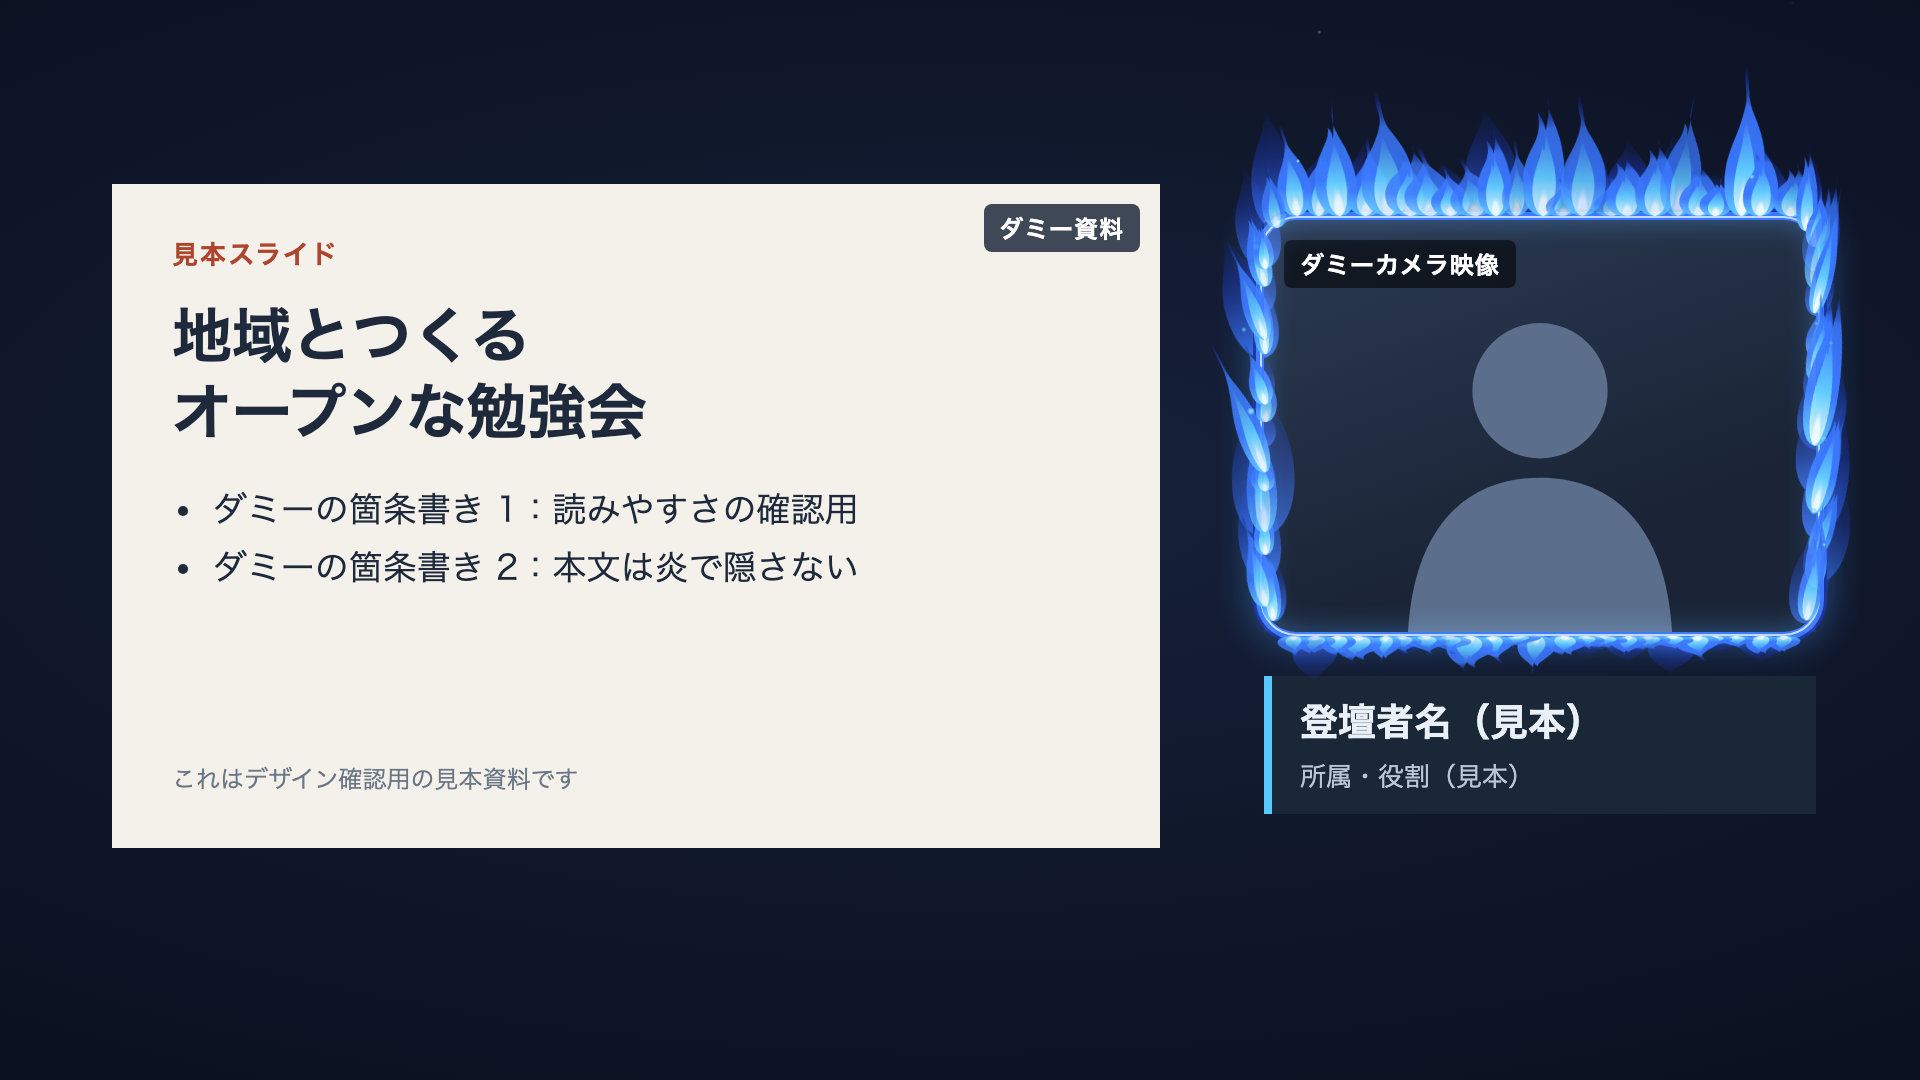
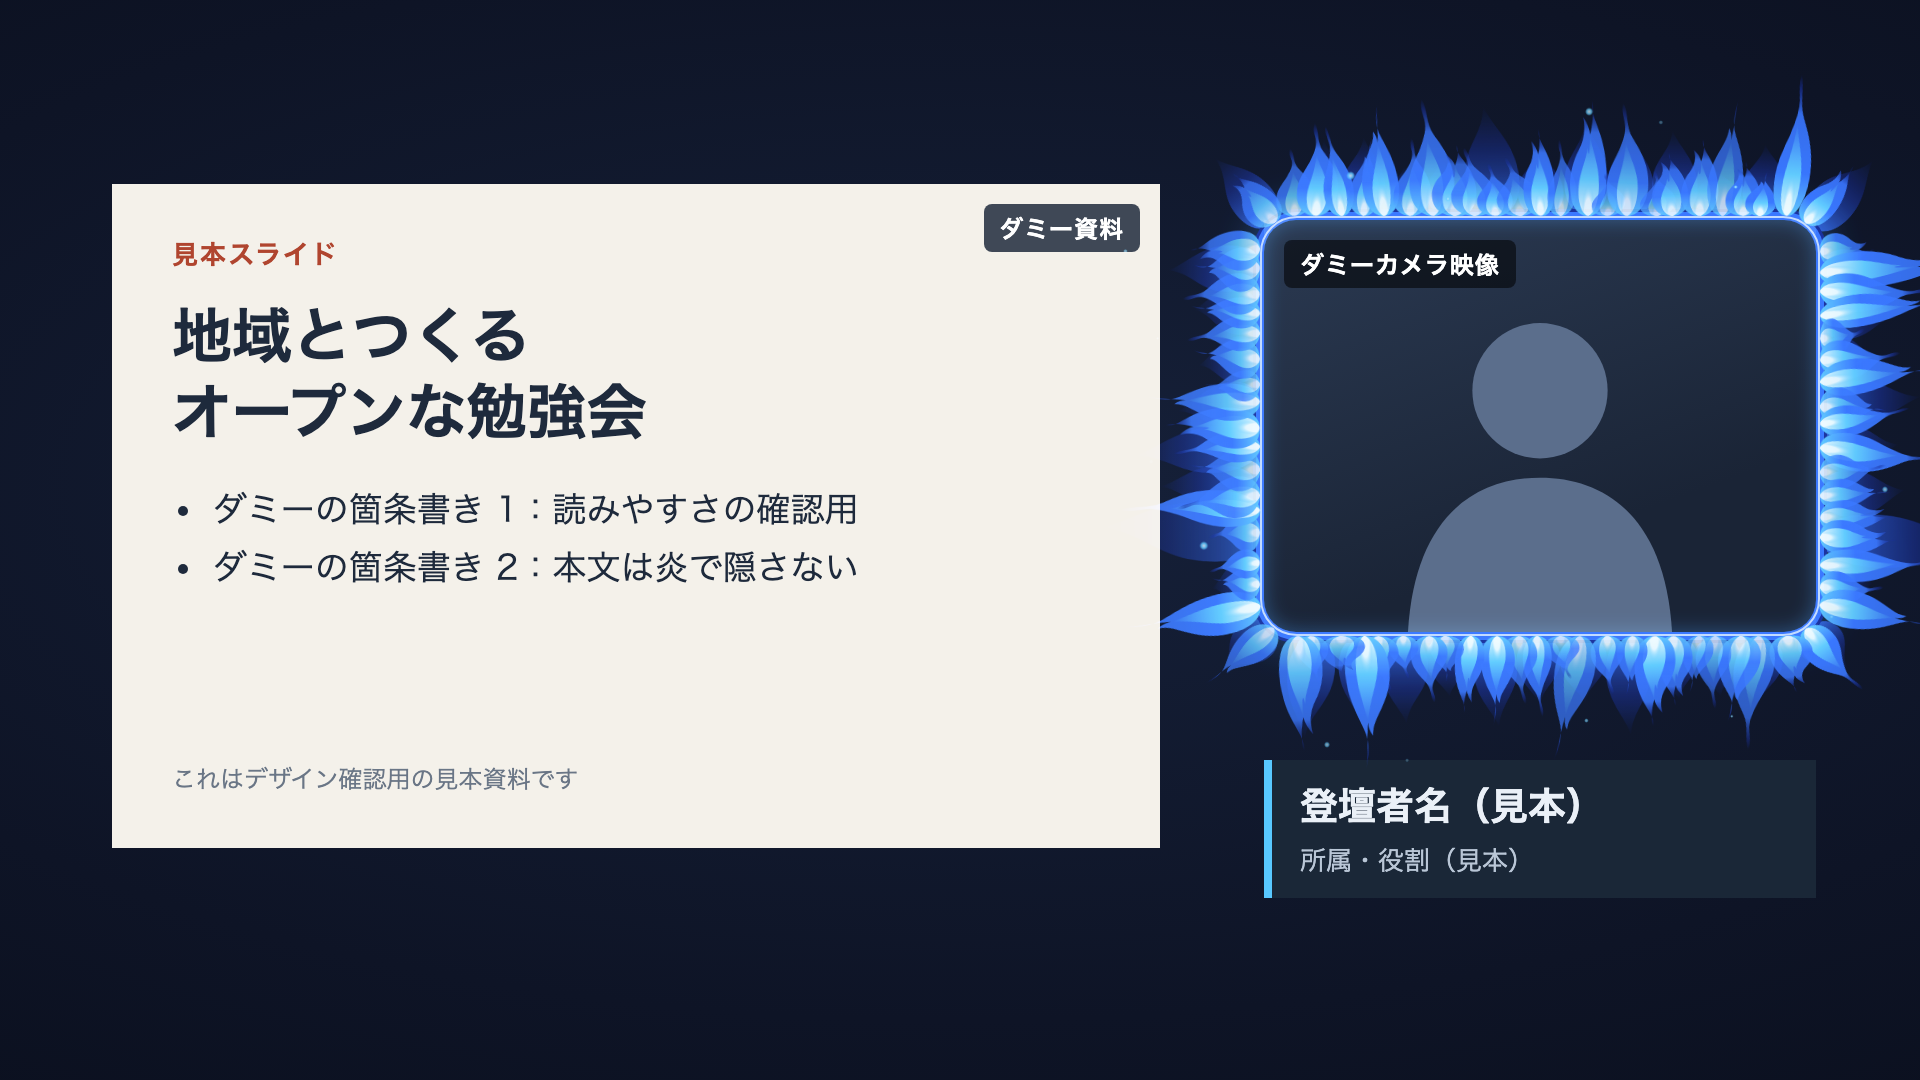
docs: 炎を枠から外側へ広がる向きに変更 (#566)

Changed region(s): [[0.5938, 0.0917, 1.0, 0.825]]

diff --git a/docs/assets/live-flame-frame-566/prototype.html b/docs/assets/live-flame-frame-566/prototype.html
@@ -8,6 +8,8 @@
   #566 「炎のフレーム」デザイン専用の試作。プロダクトのコードではない。
   外部の画像・フォント・通信を使わず、DOM + CSS + インライン SVG だけで描く。
   画面内のスライド・カメラ・氏名はすべてダミー（見本）。
+  炎は重力を無視して「枠そのものが燃えている」ように、枠から外側へ放射状に広がる
+  （上辺は上、下辺は下、左辺は左、右辺は右、角は斜め外）。枠の内側には炎を入れない。
   URL パラメータ（OBS ブラウザソースや撮影用）:
     view=output            操作パネルを隠し、ステージだけを全画面表示
     theme=ember|azure|violet|hakuji
@@ -86,12 +88,13 @@
   .frame { position: absolute; inset: 0; pointer-events: none; }
   html:not([data-theme="hakuji"]) .frame { mix-blend-mode: screen; }
   .band, .band-glow { position: absolute; border-radius: var(--r); }
+  /* flames only live outside the frame line: the frame layer is clipped to the outside of the target rect */
+  .flames { position: absolute; inset: 0; }
   .band.out { box-shadow: 0 0 0 var(--t) var(--f-outer), 0 0 0 calc(var(--t) + 1.5px) var(--f-deep); }
   .band.out::after { content: ""; position: absolute; inset: calc(var(--t) * -0.62); border-radius: calc(var(--r) + var(--t) * .62); border: max(1px, calc(var(--t) * .34)) solid var(--f-core); opacity: .75; }
-  .band-glow.out { box-shadow: 0 0 calc(10px + var(--t) * 2) calc(var(--t) + 2px) var(--f-glow), inset 0 0 14px 0 var(--f-glow); }
-  .band.in { box-shadow: inset 0 0 0 var(--t) var(--f-outer), inset 0 0 0 calc(var(--t) + 1.5px) var(--f-deep); }
-  .band.in::after { content: ""; position: absolute; inset: calc(var(--t) * .3); border-radius: var(--r); border: max(1px, calc(var(--t) * .34)) solid var(--f-core); opacity: .6; }
-  .band-glow.in { box-shadow: inset 0 0 calc(18px + var(--t) * 3) calc(var(--t) + 4px) var(--f-glow); }
+  .band-glow.out { box-shadow: 0 0 calc(10px + var(--t) * 2) calc(var(--t) + 2px) var(--f-glow); }
+  /* soft, static glow line just inside the frame (does not flicker over the face / slide) */
+  .band-inner { position: absolute; border-radius: var(--r); box-shadow: inset 0 0 10px 0 var(--f-glow); opacity: .7; }
   .band-glow { animation: breathe calc(2.9s * var(--spd)) ease-in-out infinite; }
   @keyframes breathe {
     0%, 100% { opacity: calc(1 - .25 * var(--k)); }
@@ -130,8 +133,9 @@
 
   .ember { position: absolute; left: 0; top: 0; width: var(--s); height: var(--s); border-radius: 50%;
     background: radial-gradient(circle, var(--f-core) 0%, var(--f-mid) 40%, transparent 72%);
-    animation: rise calc(var(--d) * var(--spd)) linear var(--dl) infinite; opacity: 0; will-change: transform, opacity; }
-  @keyframes rise {
+    animation: drift calc(var(--d) * var(--spd)) linear var(--dl) infinite; opacity: 0; will-change: transform, opacity; }
+  /* embers drift outward along the frame normal (--dx/--dy), not upward */
+  @keyframes drift {
     0% { transform: translate(0, 0) scale(1); opacity: 0; }
     12% { opacity: calc(.4 + .6 * var(--k)); }
     60% { transform: translate(calc(var(--dx) * .6), calc(var(--dy) * .6)) scale(.8); opacity: calc(.3 + .5 * var(--k)); }
@@ -267,23 +271,25 @@
   // Layout per placement: content rectangles and the rectangle the flames surround.
   function layout(place) {
     if (place === "screen") {
-      const deck = { x: 84, y: 66, w: 792, h: 408 };
-      return { mode: "in", target: { x: 8, y: 8, w: W - 16, h: H - 16 }, safe: deck, margin: 58,
+      // The frame line is inset from the screen edge; flames radiate outward toward (and off) the screen edge.
+      const deck = { x: 84, y: 66, w: 792, h: 408 }, inset = 44;
+      return { target: { x: inset, y: inset, w: W - inset * 2, h: H - inset * 2 }, safe: deck, edge: inset,
         html: `<div class="mock mock-slide" style="left:${deck.x}px;top:${deck.y}px;width:${deck.w}px;height:${deck.h}px">${slide(true)}</div>
                <div class="proto-tag" style="right:96px;top:78px;display:none"></div>` };
     }
     const deck = { x: 56, y: 92, w: 524, h: 332 }, cam = { x: 632, y: 110, w: 276, h: 206 };
     const target = place === "camera" ? cam : deck;
-    return { mode: "out", target, safe: target,
+    return { target, safe: target, edge: 0,
       html: `<div class="mock mock-slide" style="left:${deck.x}px;top:${deck.y}px;width:${deck.w}px;height:${deck.h}px">${slide(false)}</div>
              <div class="mock mock-camera" style="left:${cam.x}px;top:${cam.y}px;width:${cam.w}px;height:${cam.h}px">${personSvg}<span class="mock-tag">ダミーカメラ映像</span></div>
-             <div class="name-plate" style="left:${cam.x}px;top:${cam.y + cam.h + 22}px;width:${cam.w}px"><b>登壇者名（見本）</b><span>所属・役割（見本）</span></div>` };
+             <div class="name-plate" style="left:${cam.x}px;top:${cam.y + cam.h + 64}px;width:${cam.w}px"><b>登壇者名（見本）</b><span>所属・役割（見本）</span></div>` };
   }
 
   // Walk a rounded rectangle clockwise; returns point + outward normal for arc length s.
   function roundedRectSampler(rect, r) {
     r = Math.max(0, Math.min(r, rect.w / 2, rect.h / 2));
-    const sx = rect.w - 2 * r, sy = rect.h - 2 * r, arc = Math.PI * r / 2;
+    // corners always get a short sampling length so normals fan smoothly (also when 角丸 = 0)
+    const sx = rect.w - 2 * r, sy = rect.h - 2 * r, arc = Math.max(Math.PI * r / 2, 14);
     const segs = [
       { len: sx, f: t => [rect.x + r + t * sx, rect.y, 0, -1] },
       { len: arc, f: t => { const a = -Math.PI / 2 + t * Math.PI / 2; return [rect.x + rect.w - r + r * Math.cos(a), rect.y + r + r * Math.sin(a), Math.cos(a), Math.sin(a)]; } },
@@ -298,60 +304,59 @@
     return { total, at(s) { s = ((s % total) + total) % total; for (const seg of segs) { if (s <= seg.len) return seg.f(seg.len ? s / seg.len : 0); s -= seg.len; } return segs[0].f(0); } };
   }
 
+  // Outside-of-frame clip: flames and embers can never paint over the camera face or slide text.
+  function outsideClip(rect, r) {
+    r = Math.max(0, Math.min(r, rect.w / 2, rect.h / 2));
+    const { x, y, w, h } = rect;
+    return `path(evenodd, "M-200 -200H${W + 200}V${H + 200}H-200Z M${x + r} ${y}H${x + w - r}A${r} ${r} 0 0 1 ${x + w} ${y + r}V${y + h - r}A${r} ${r} 0 0 1 ${x + w - r} ${y + h}H${x + r}A${r} ${r} 0 0 1 ${x} ${y + h - r}V${y + r}A${r} ${r} 0 0 1 ${x + r} ${y}Z")`;
+  }
+
   let counts = { tongues: 0, embers: 0 };
   function buildFrame() {
     const L = layout(state.place);
     content.innerHTML = L.html;
     document.documentElement.dataset.theme = state.theme;
     const g = L.safe; Object.assign(guide.style, { left: g.x + "px", top: g.y + "px", width: g.w + "px", height: g.h + "px" });
-    const rand = rng(566), T = state.thickness, R = state.radius, inward = L.mode === "in";
-    // Screen-edge flames never reach the safe area: effective height is limited by the margin.
-    const Hmax = inward ? Math.min(state.height, L.margin / (1.3 * 0.9)) : state.height;
+    const rand = rng(566), T = state.thickness, R = state.radius, screenEdge = L.edge > 0;
     const rect = L.target;
     const s = roundedRectSampler(rect, R);
-    const spacing = Math.max(11, s.total / (inward ? 150 : 84));
+    const spacing = Math.max(11, s.total / (screenEdge ? 150 : 84));
     const n = Math.round(s.total / spacing);
-    let html = "";
     const bandStyle = `left:${rect.x}px;top:${rect.y}px;width:${rect.w}px;height:${rect.h}px;--r:${R}px;--t:${T}px`;
-    html += `<div class="band-glow ${L.mode}" style="${bandStyle}"></div>`;
-    const tongue = (layer, i, x, y, nx, ny) => {
-      // Fire rises: on side edges flames climb almost vertically along the frame (slight outward tilt),
-      // so they read as tall licks instead of stacked scales; bottom-facing flames stay as short licks.
-      let dx = nx, dy = ny, side = false;
-      if (Math.abs(ny) < 0.92) { side = true; dx = nx * (0.12 + rand() * 0.16); dy = -1; const m = Math.hypot(dx, dy); dx /= m; dy /= m; }
+    // The frame itself burns: every tongue is rooted on the frame line and points along the outward normal
+    // (top → up, bottom → down, left → left, right → right, corners → diagonal). Gravity is ignored.
+    const tongue = (layer, x, y, nx, ny) => {
       const r0 = rand();
-      const lick = r0 < 0.16 ? 1.25 + rand() * 0.35 : r0 < 0.45 ? 0.45 + rand() * 0.25 : 0.7 + rand() * 0.35;
-      const sideFactor = side ? 1.25 : ny < -0.5 ? 1 : 0.3;
-      let h = Hmax * sideFactor * lick * (layer === "back" ? 1.1 : 1);
+      const lick = r0 < 0.16 ? 1.2 + rand() * 0.3 : r0 < 0.45 ? 0.5 + rand() * 0.2 : 0.72 + rand() * 0.3;
+      let h = state.height * lick * (layer === "back" ? 1.15 : 1);
       // 白磁 (light) keeps the gold restrained: shorter tongues on the bright paper.
       if (state.theme === "hakuji") h *= 0.68;
-      // Screen edge: hard cap so no tongue (including tall licks) reaches the safe area.
-      if (inward) h = Math.min(h * 0.9, L.margin * (layer === "back" ? 0.8 : 0.9));
-      const w = Math.max(side ? spacing * 1.1 : spacing * (layer === "back" ? 2.2 : 1.6 + rand() * 0.8), h * (layer === "back" ? 0.42 : side ? 0.2 + rand() * 0.08 : 0.3 + rand() * 0.14));
-      // base sits in the middle of the band
-      const off = side ? (inward ? -T * 0.2 : T * 0.2) - nx * 0 : inward ? T * 0.5 : -T * 0.5;
-      const bx = x - nx * off, by = y - ny * off;
-      const rot = Math.atan2(dx, -dy) * 180 / Math.PI + (rand() - 0.5) * 8;
+      const w = Math.max(spacing * (layer === "back" ? 2.2 : 1.5 + rand() * 0.7), h * (layer === "back" ? 0.42 : 0.28 + rand() * 0.12));
+      // root in the middle of the band, just outside the frame line
+      const bx = x + nx * T * 0.5, by = y + ny * T * 0.5;
+      const rot = Math.atan2(nx, -ny) * 180 / Math.PI + (rand() - 0.5) * 8;
       const sym = layer === "back" ? "flame-back" : ["flame-a", "flame-b", "flame-c"][Math.floor(rand() * 3)];
       const anim = ["fl-a", "fl-b", "fl-c"][Math.floor(rand() * 3)];
       const d = (layer === "back" ? 1.5 : 0.75) + rand() * 0.6;
       return `<svg class="tongue ${layer}" style="width:${w.toFixed(1)}px;height:${h.toFixed(1)}px;translate:${(bx - w / 2).toFixed(1)}px ${(by - h).toFixed(1)}px;rotate:${rot.toFixed(1)}deg;--anim:${anim};--d:${d.toFixed(2)}s;--dl:${(-rand() * 3).toFixed(2)}s"><use href="#${sym}"/></svg>`;
     };
-    for (let i = 0; i < Math.round(n / 2); i++) { const [x, y, nx, ny] = s.at((i + 0.5) * spacing * 2); html += tongue("back", i, x, y, inward ? -nx : nx, inward ? -ny : ny); }
-    html += `<div class="band ${L.mode}" style="${bandStyle}"></div>`;
-    for (let i = 0; i < n; i++) { const [x, y, nx, ny] = s.at(i * spacing + (rand() - 0.5) * spacing * 0.4); if (Math.abs(ny) < 0.92 && i % 3 === 1) continue; html += tongue("main", i, x, y, inward ? -nx : nx, inward ? -ny : ny); }
-    // embers: rise straight up from the upper-facing parts of the frame, fade quickly
-    const embers = inward ? 26 : 16;
+    let flames = `<div class="band-glow out" style="${bandStyle}"></div>`;
+    const nBack = Math.round(n / 2);
+    for (let i = 0; i < nBack; i++) { const [x, y, nx, ny] = s.at((i + 0.5) * spacing * 2); flames += tongue("back", x, y, nx, ny); }
+    flames += `<div class="band out" style="${bandStyle}"></div>`;
+    for (let i = 0; i < n; i++) { const [x, y, nx, ny] = s.at(i * spacing + (rand() - 0.5) * spacing * 0.4); flames += tongue("main", x, y, nx, ny); }
+    // embers: leave the frame all the way around and drift outward along the normal, with a little sideways wander
+    const embers = screenEdge ? 28 : 18;
     for (let i = 0; i < embers; i++) {
-      let x, y, nx, ny, tries = 0;
-      do { [x, y, nx, ny] = s.at(rand() * s.total); tries++; } while (tries < 8 && (inward ? ny > -0.5 && Math.abs(nx) < 0.5 : ny > 0.5));
+      const [x, y, nx, ny] = s.at((i + rand() * 0.8) * s.total / embers);
       const size = 2 + rand() * 3.2;
-      const travel = inward ? Math.min(L.margin * 0.8, 40 + rand() * 30) : 50 + rand() * Hmax * 1.6;
-      const ex = x - (inward ? nx : -nx) * T, ey = y - (inward ? ny : -ny) * T;
-      html += `<i class="ember" style="--s:${size.toFixed(1)}px;translate:${(ex - size / 2).toFixed(1)}px ${(ey - size / 2).toFixed(1)}px;--dx:${((rand() - 0.5) * 36).toFixed(1)}px;--dy:${(-travel).toFixed(1)}px;--d:${(1.6 + rand() * 1.8).toFixed(2)}s;--dl:${(-rand() * 4).toFixed(2)}s"></i>`;
+      const travel = screenEdge ? L.edge * 0.7 + rand() * 30 : 36 + rand() * state.height * 1.4;
+      const side = (rand() - 0.5) * 28;
+      const ex = x + nx * (T + 2), ey = y + ny * (T + 2);
+      flames += `<i class="ember" style="--s:${size.toFixed(1)}px;translate:${(ex - size / 2).toFixed(1)}px ${(ey - size / 2).toFixed(1)}px;--dx:${(nx * travel - ny * side).toFixed(1)}px;--dy:${(ny * travel + nx * side).toFixed(1)}px;--d:${(1.6 + rand() * 1.8).toFixed(2)}s;--dl:${(-rand() * 4).toFixed(2)}s"></i>`;
     }
-    frame.innerHTML = html;
-    counts = { tongues: n + Math.round(n / 2), embers };
+    frame.innerHTML = `<div class="flames" style="clip-path:${outsideClip(rect, R)}">${flames}</div><div class="band-inner" style="${bandStyle}"></div>`;
+    counts = { tongues: n + nBack, embers };
     applyVars();
   }
 

diff --git a/docs/live-flame-frame-design.md b/docs/live-flame-frame-design.md
@@ -18,8 +18,11 @@
 | 資料 | スライド（資料）枠の外周を炎で囲む |
 | 画面の縁 | 画面全体の縁取りとして四辺に炎を置く |
 
-- カメラ・資料では、炎は枠の**外側へ向かって**立ち上がり、枠の内側（カメラ映像・資料の本文）には重ならない。
-- 画面の縁では、炎は画面の端から内側へ立ち上がるが、高さを余白の幅までに抑え、中央の安全領域には届かない。
+- 「中の人や資料が燃やされている」ではなく「**枠そのものが燃えている**」見え方にする。そのため炎は重力を無視し、枠から**外側へ放射状に**広がる。
+  - 上辺は上へ、下辺は下へ、左辺は左へ、右辺は右へ、角は斜め外へ向く（角丸に沿って向きがなめらかに変わる）。
+  - ゆらぎも外向きの向きに沿って動く（炎の先が外へ伸び縮みし、横方向にはわずかに揺れる）。火の粉も上へ昇るのではなく、枠から外へ離れていく。
+- 枠の内側（カメラ映像・資料の本文）には炎を入れない。内側は枠に沿った控えめな光の線だけにする。
+- 画面の縁では、画面の端から少し内側に枠の線を置き、炎はその線から**画面の端へ向かって外向きに**伸びる（画面の外へはみ出してよい）。中央の安全領域には届かない。
 - 中央は常に空け、顔や本文を隠さない（試作の「安全領域を表示」で確認できる）。
 
 ## 色
